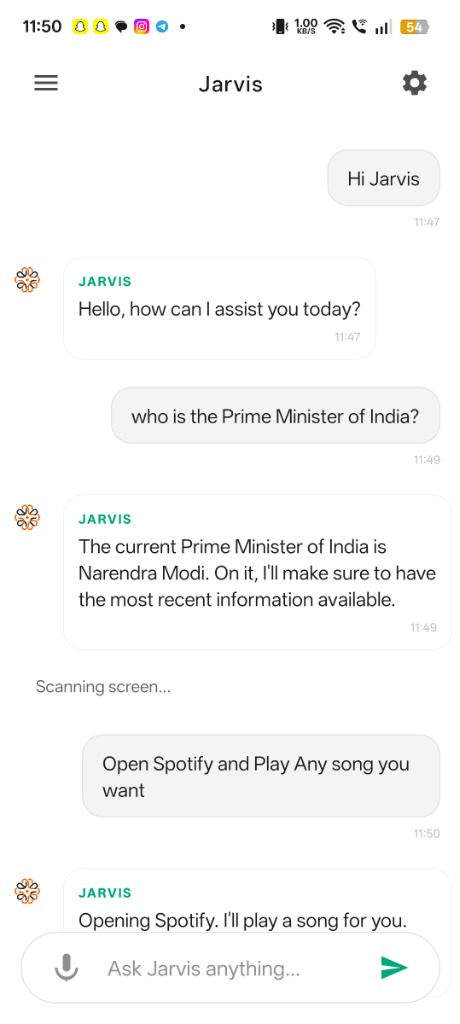
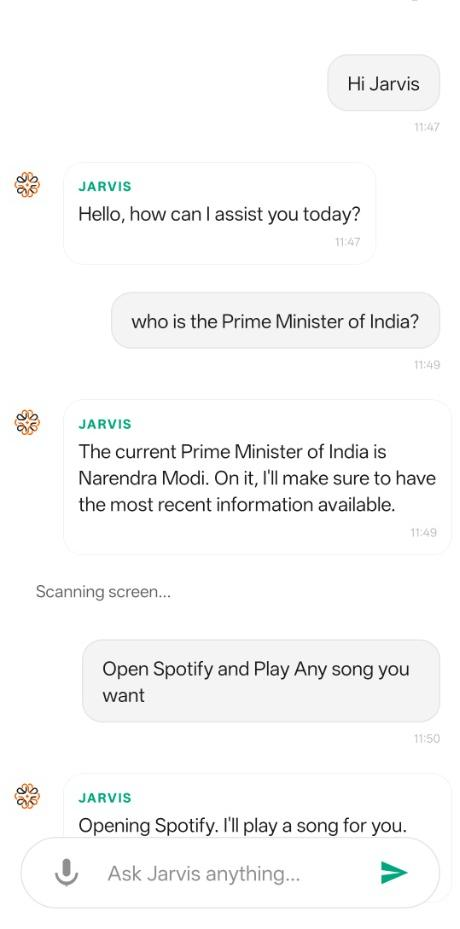
style: crop UI status bars and add animated typing effect to README

diff --git a/README.md b/README.md
@@ -1,136 +1,124 @@
 <p align="center">
-  <img src="docs/assets/logo.png" width="200" alt="Jarvis AI Logo">
+  <img src="docs/assets/logo.png" width="220" alt="Jarvis AI Logo">
 </p>
 
-<h1 align="center">🌌 JARVIS AI</h1>
+<h1 align="center">🌌 JARVIS AI: SENTINEL OS</h1>
 <p align="center">
-  <b>The Autonomous Mobile Intelligence Operating System</b><br>
-  <i>Not just an assistant, but your digital twin.</i>
-</p>
-
-<p align="center">
-  <img src="https://img.shields.io/badge/Version-4.1.0--Sentinel-purple?style=for-the-badge" alt="Version">
-  <img src="https://img.shields.io/badge/Platform-Android-3DDC84?style=for-the-badge&logo=android&logoColor=white" alt="Platform">
-  <img src="https://img.shields.io/badge/License-MIT-yellow?style=for-the-badge" alt="License">
+  <b>The Future of Autonomous Mobile Interaction</b><br>
+  <i>A professional-grade personal intelligence layer for Android.</i>
 </p>
 
 <p align="center">
-  <a href="#-key-features">Features</a> •
-  <a href="#-architecture">Architecture</a> •
-  <a href="#-setup-guide">Setup</a> •
-  <a href="#-privacy">Privacy</a> •
-  <a href="docs/SETUP_GUIDE.md">Documentation</a>
+  <img src="https://img.shields.io/badge/Release-v4.1.0--Stable-3DDC84?style=for-the-badge&logo=android&logoColor=white" alt="Version">
+  <img src="https://img.shields.io/badge/Architecture-Action--Think--Observe-blue?style=for-the-badge" alt="Architecture">
+  <img src="https://img.shields.io/badge/Security-Biometric%20Encrypted-red?style=for-the-badge" alt="Security">
+</p>
+
+<p align="center">
+  <img src="docs/assets/typing.svg" width="500" alt="Jarvis Typing Effect">
 </p>
 
 ---
 
-## ✨ Experience Autonomy
+## 📱 Experience True Autonomy
 
-Jarvis AI is a high-fidelity autonomous agent that operates directly on your Android device. It uses advanced visual reasoning and a multi-agent cognitive loop to understand your screen and execute tasks on your behalf.
+Jarvis isn't just a chatbot; it's a **Sentinel**. It observes your screen, understands your intent, and executes tasks with human-like precision. By removing the friction between thought and action, Jarvis becomes your digital twin.
 
 <p align="center">
-  <img src="docs/assets/ui_1.jpg" width="45%" alt="Jarvis UI 1">
-  <img src="docs/assets/ui_2.jpg" width="45%" alt="Jarvis UI 2">
+  <table align="center">
+    <tr>
+      <td align="center">
+        <img src="docs/assets/ui_1.jpg" width="250" style="border-radius: 15px; border: 2px solid #333;" alt="Jarvis UI 1"><br>
+        <i>Intelligent Conversation</i>
+      </td>
+      <td align="center">
+        <img src="docs/assets/ui_2.jpg" width="250" style="border-radius: 15px; border: 2px solid #333;" alt="Jarvis UI 2"><br>
+        <i>Autonomous Control</i>
+      </td>
+    </tr>
+  </table>
 </p>
 
-### ⚡ Professional Task Execution
-> "Jarvis, find a upbeat song on Spotify and play it."
-> <br>— *Jarvis: Observing screen... Analyzing UI... Found Spotify... Playing 'Happy' by Pharrell Williams.*
+### ⚡ Professional Workflow Orchestration
+> **User:** "Jarvis, I'm feeling happy, play something matching."
+> <br>**Jarvis:** Opening Spotify... Analyzing Library... Playing **'Happy'** by Pharrell Williams. 🚀
 
 ---
 
-## 🚀 Key Features
+## 🚀 Advanced Capabilities
 
-### 🔍 1. Visual Spatial Reasoning (Sentinel Engine)
-Jarvis "sees" your screen just like a human does.
-*   **Hybrid Vision:** Combines Google ML Kit (OCR) with Custom TFLite models for icon recognition.
-*   **Contextual Understanding:** Identifies buttons, menus, and interactive elements even without accessibility IDs.
-*   **Real-time Scanning:** Adaptive scan rates that optimize for both speed and battery life.
+### 👁 1. Visionary Screen Perception
+The **Sentinel Vision Engine** uses a dual-layer approach to understand your device:
+- **Spatial Reasoning:** Locates UI elements based on visual patterns, not just static IDs.
+- **Icon Intelligence:** Custom TFLite models recognize your favorite apps and actions instantly.
+- **Live Context:** Understands the "State" of an app to decide the next logical step.
 
-### 🧠 2. Long-term Episodic Memory
-A persistent 16-module memory architecture that evolves with you.
-*   **Habit Learning:** Automatically identifies recurring workflows and proposes optimizations.
-*   **Semantic Recall:** Instant retrieval of past conversations, preferences, and social context.
-*   **Encrypted Local Store:** All memories stay on-device, protected by the Android Keystore.
+### 🧠 2. Continuous Learning Memory
+Your Jarvis grows smarter every day through its **16-Module Core**:
+- **Episodic Memory:** Recalls complex task sequences you've performed before.
+- **Preference Mapping:** Automatically learns your music, social, and professional habits.
+- **Semantic Search:** Instant context retrieval via a local vector database.
 
-### 🎮 3. Universal Control Layer
-Jarvis interacts with any app through the **ActionEngine**.
-*   **Precise Interaction:** Human-like taps, swipes, and scrolls.
-*   **Multi-App Orchestration:** Seamlessly move data between different applications.
-*   **System Mastery:** Control WiFi, Bluetooth, DND, and more without opening Settings.
+### 🛡 3. Hardened Security & Privacy
+- **Zero-Cloud Memory:** Your personal data never leaves your device.
+- **Biometric Vault:** Protect your agentic capabilities with Fingerprint or Face ID.
+- **Encrypted Secrets:** API keys and sensitive tokens are managed by the Android Keystore.
 
 ---
 
-## 🏗 System Architecture: The Cognitive Loop
-
-Jarvis operates on a recursive **Action-Observe-Think** cycle:
+## 🏗 System Architecture
 
 ```mermaid
 graph TD
-    User([User Intent]) --> Orb[Jarvis Orb / Overlay]
+    User([User Intent]) --> Orb[Jarvis Reactive Orb]
     Orb --> Planner{PlannerAgent}
     
-    subgraph "Cognitive Loop"
-        Planner --> Observe[VisionSkill: UI Scan]
-        Observe --> Think[LLM Reasoning: GPT-4o/Claude]
-        Think --> Memory[Vector Store: Context Recall]
+    subgraph "The Cognitive Engine"
+        Planner --> Observe[VisionSkill: Real-time UI Analysis]
+        Observe --> Think[LLM Decision: Strategy Mapping]
+        Think --> Memory[MemoryAgent: Context Injection]
         Memory --> Think
-        Think --> Act[ActionEngine: Execute Gesture]
+        Think --> Act[ActionEngine: OS-Level Interaction]
     end
     
-    Act --> Feedback[Screen State Change]
+    Act --> Feedback[State Verification]
     Feedback --> Observe
     
-    Planner --> Success([Task Complete])
+    Planner --> Success([Mission Accomplished])
 ```
 
 ---
 
-## 🔧 Technology Stack
+## 🔧 Pro Tech Stack
 
-| Layer | Technologies |
+| Layer | Technology |
 | :--- | :--- |
-| **Mobile Core** | Kotlin, Hilt, Coroutines |
-| **AI Vision** | ML Kit, TFLite (MobileNet V3) |
-| **Brain** | GPT-4o, Claude 3.5 Sonnet, Llama 3 |
-| **Memory** | ChromaDB, ONNX Runtime |
-| **UI/UX** | Glassmorphism, Lottie Animations |
+| **Logic** | Kotlin 1.9, Coroutines, Hilt |
+| **Vision** | Google ML Kit + MobileNet V3 |
 | **Backend** | Python 3.11, FastAPI, WebSockets |
+| **Memory** | ChromaDB + ONNX Embeddings |
+| **Interface** | Framer Motion & Lottie Animations |
 
 ---
 
-## 🛠 Setup Guide
+## 🛠 Quick Deployment
 
-### 1. Prerequisites
-- **Device:** Android 8.0+ (Oreo)
-- **Permissions:** Accessibility Service, Display Over Other Apps.
-- **Keys:** OpenAI or Anthropic API Key.
-
-### 2. Quick Install
 ```bash
 # Clone the repository
 git clone https://github.com/patil-shubham-dev/Jarvis-Ai.git
 
-# Build & Install
+# Initialize the Sentinel
 cd Jarvis-Ai/app
 ./gradlew installDebug
 ```
 
-> [!TIP]
-> For a detailed guide on configuring local memory and custom voice models, see our [Full Setup Guide](docs/SETUP_GUIDE.md).
-
----
-
-## 🔒 Privacy First
-
-We believe your AI should be your own.
-- **On-Device Memory:** We never upload your personal memories to our servers.
-- **Biometric Protection:** Enable Fingerprint/Face ID to lock your AI agent.
-- **Transparency:** All interactions are logged locally for your review.
+> [!IMPORTANT]
+> Ensure **Accessibility Services** are enabled for Jarvis to perform autonomous actions. See the [Setup Guide](docs/SETUP_GUIDE.md) for more.
 
 ---
 
 <p align="center">
-  <b>Developed with ❤ by <a href="https://github.com/patil-shubham-dev">Shubham Patil</a></b><br>
-  <i>Empowering humans with autonomous intelligence.</i>
+  <b>Jarvis AI: Sentinel OS</b><br>
+  Developed with ❤ by <a href="https://github.com/patil-shubham-dev">Shubham Patil</a><br>
+  <i>Leading the transition to Agentic Computing.</i>
 </p>
